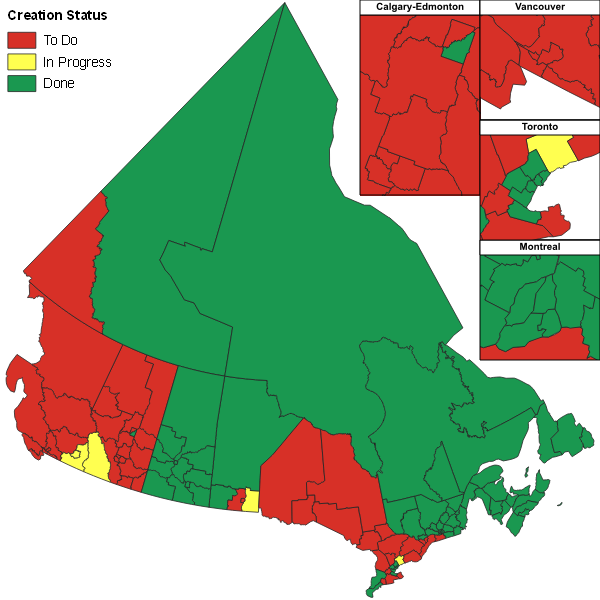
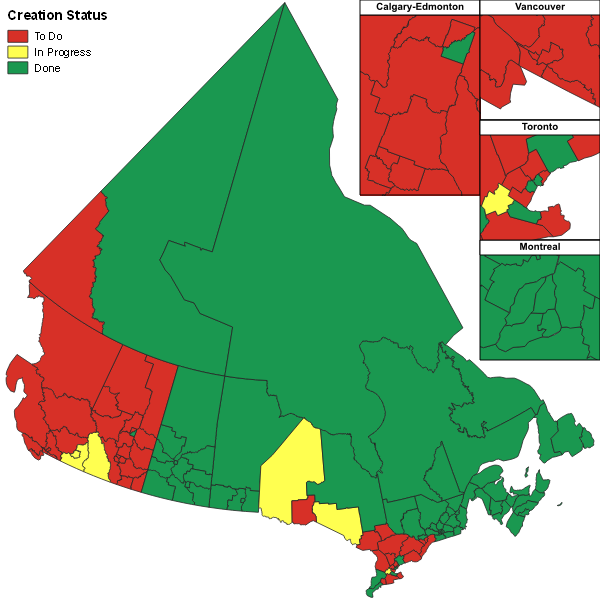
Updated progress maps - creation, conflation and routable

diff --git a/docs/source/crn_implementation_process/meshblock_conflation.rst b/docs/source/crn_implementation_process/meshblock_conflation.rst
@@ -210,4 +210,4 @@ Progress
 .. figure:: /source/_static/progress/meshblock_conflation_progress_map.png
     :alt: Meshblock conflation progress map.
 
-    Figure: Meshblock conflation progress map as of February 7, 2023.
+    Figure: Meshblock conflation progress map as of March 13, 2023.

diff --git a/docs/source/crn_implementation_process/meshblock_creation.rst b/docs/source/crn_implementation_process/meshblock_creation.rst
@@ -326,4 +326,4 @@ Progress
 .. figure:: /source/_static/progress/meshblock_creation_progress_map.png
     :alt: Meshblock creation progress map.
 
-    Figure: Meshblock creation progress map as of February 7, 2023.
+    Figure: Meshblock creation progress map as of March 13, 2023.

diff --git a/docs/source/crn_implementation_process/routable_crn.rst b/docs/source/crn_implementation_process/routable_crn.rst
@@ -89,4 +89,4 @@ Progress
 .. figure:: /source/_static/progress/routable_crn_progress_map.png
     :alt: Routable CRN progress map.
 
-    Figure: Routable CRN progress map as of February 7, 2023.
+    Figure: Routable CRN progress map as of March 13, 2023.
